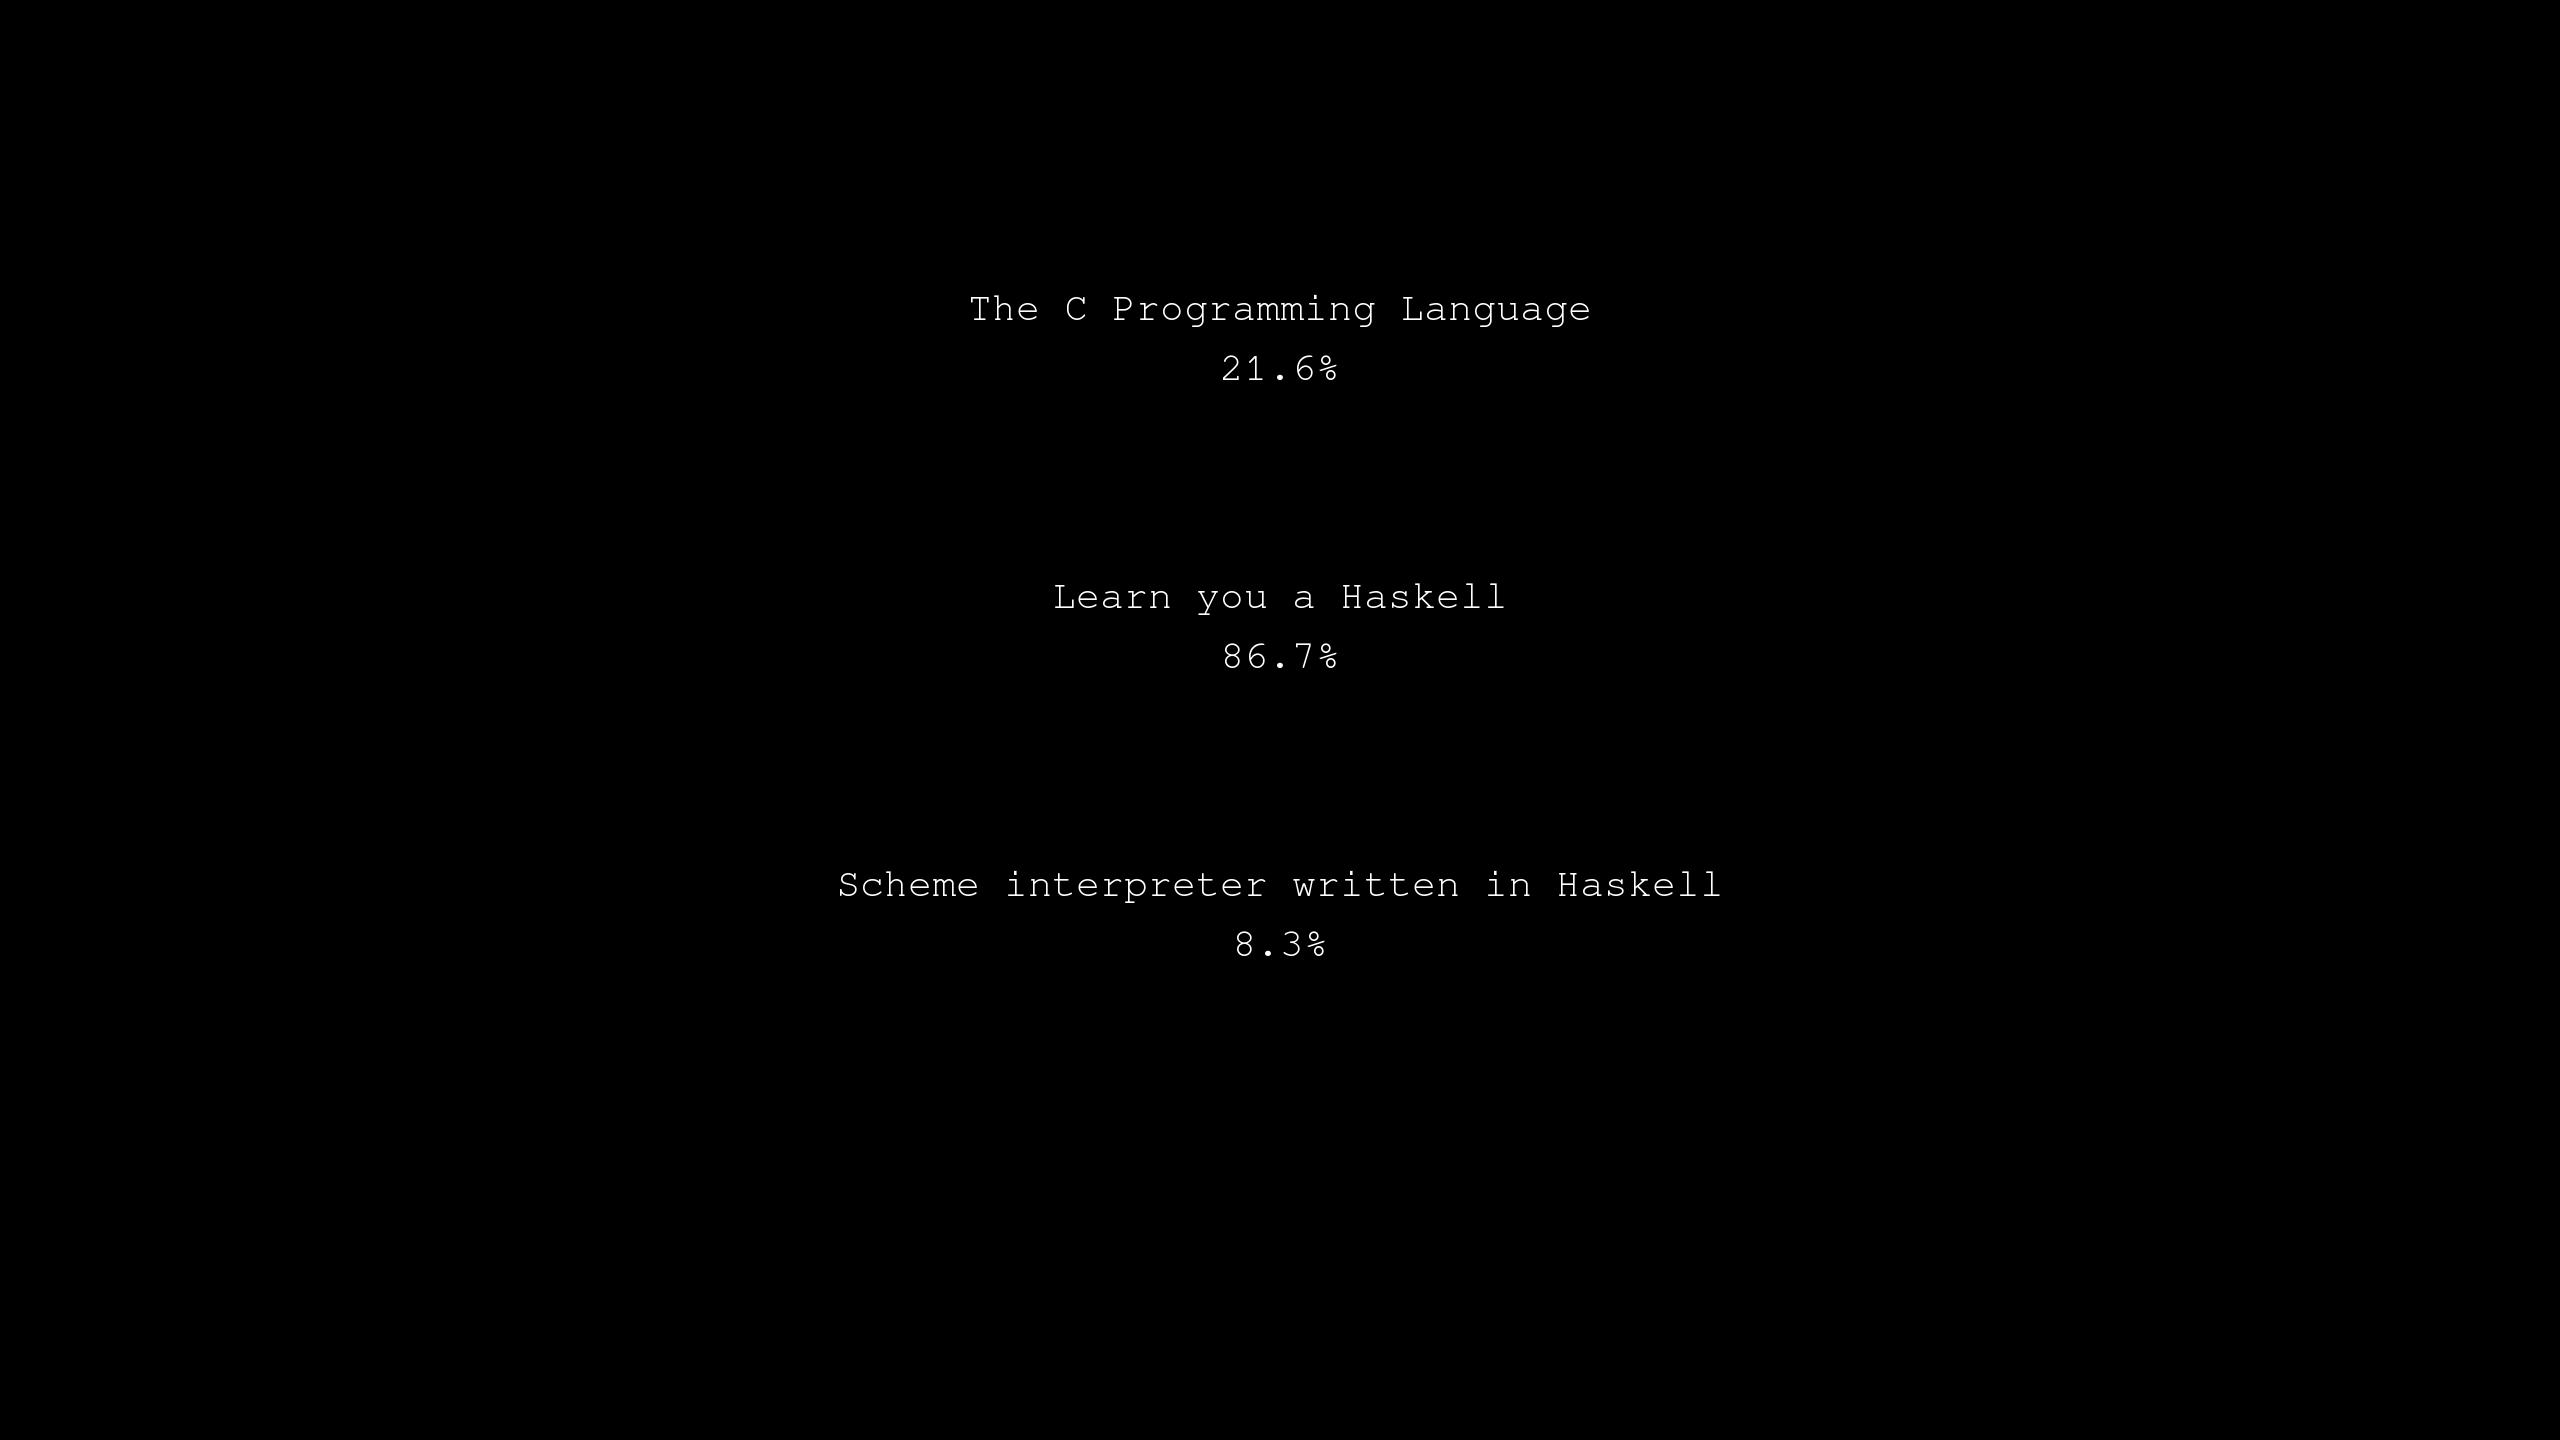
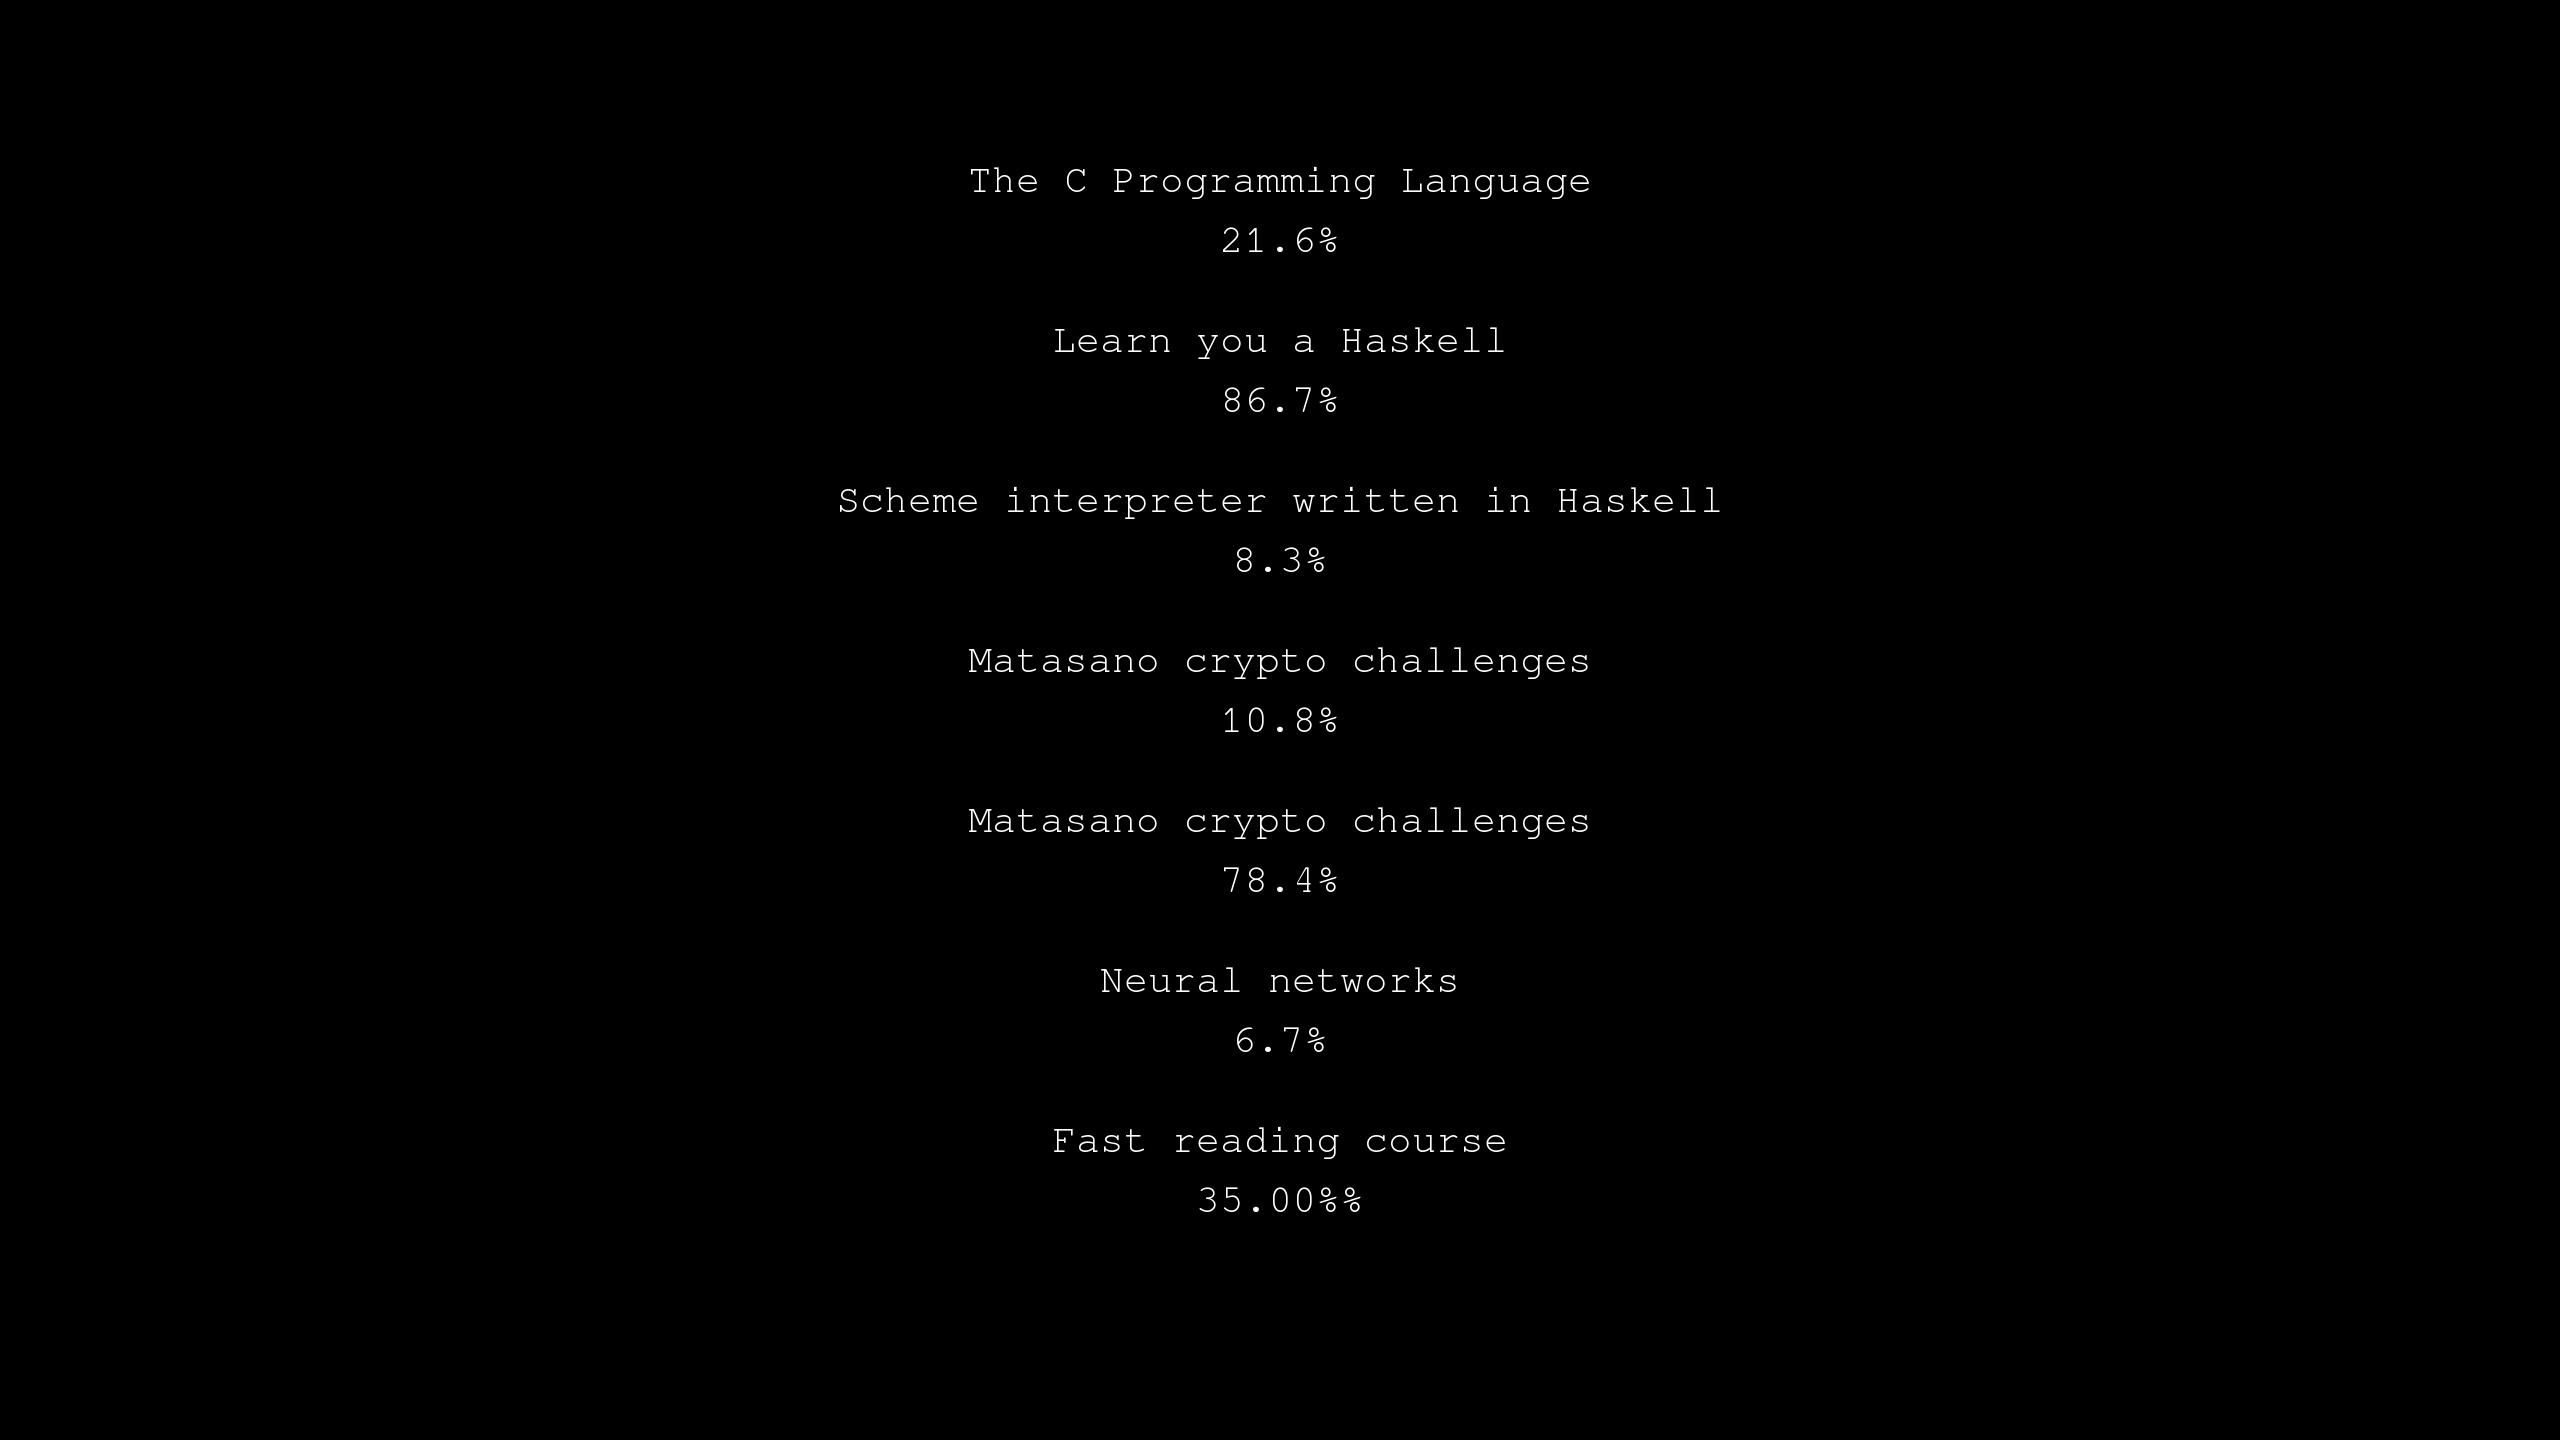
Scripts

diff --git a/scripts/dynamicwallpaper.py b/scripts/dynamicwallpaper.py
@@ -4,9 +4,8 @@ from PIL import Image, ImageDraw, ImageFont
 from random import randint
 import commands
 
-
-# get an image
-base = Image.open('/home/hallgrimur1471/bashscripts/dynamicwallpaper_base.jpg').convert('RGBA')
+# get a base image
+base = Image.open('/home/hallgrimur1471/programming/scripts/dynamicwallpaper_base.jpg').convert('RGBA')
 imageWidth, imageHeight = base.size
 
 # make a blank image for the text, initialized to transparent text color
@@ -17,27 +16,46 @@ fnt = ImageFont.truetype('Pillow/Tests/fonts/FreeMono.ttf', 40)
 # get a drawing context
 d = ImageDraw.Draw(txt)
 
-n = 3
+n = 7 # number of projects
+
 project1 = "The C Programming Language"
 project1TotalExercises = commands.getstatusoutput('cat /home/hallgrimur1471/c/exercise-count.txt | awk \'{sum += $3} END {print sum}\'')[1]
 project1CurrentExercise = commands.getstatusoutput('ls /home/hallgrimur1471/c | egrep \'^ex.-.*\.c$\' | wc -l')[1]
 progress1 = 100*float(project1CurrentExercise)/(int(project1TotalExercises)+1)
 progress1 = "%.1f%%" % progress1
+
 project2 = "Learn you a Haskell"
 project2TotalChapters = 14
 project2CurrentChapter = commands.getstatusoutput('ls /home/hallgrimur1471/programming/learn-you-a-haskell | egrep \'^c[0-9]+-.*\.hs$\' | egrep -o \'^c[0-9]+-\' | uniq | wc -l')[1]
 progress2 = 100*float(project2CurrentChapter)/(int(project2TotalChapters)+1)
 progress2 = "%.1f%%" % progress2
+
 project3 = "Scheme interpreter written in Haskell"
 project3TotalChapters = commands.getstatusoutput('cat /home/hallgrimur1471/programming/scheme-interpreter-written-in-haskell/project.progress | wc -l')[1]
 project3CurrentChapter = commands.getstatusoutput('cat /home/hallgrimur1471/programming/scheme-interpreter-written-in-haskell/project.progress | awk \'{sum += $2} END {print sum}\'')[1]
 progress3 = 100*float(project3CurrentChapter)/(int(project3TotalChapters))
 progress3 = "%.1f%%" % progress3
 
-project4 = "Fast reading course"
-project5 = "Linear regression"
-project6 = "Cryptopals"
-project7 = "Advent of code"
+project4 = "Matasano crypto challenges"
+project4TotalChallenges = 64+1 # +1 so we don't go to 100% when starting last challenge
+project4CurrentChallenge = commands.getstatusoutput("cd /home/hallgrimur1471/programming/matasano_crypto_challenges/matasano_cryptography && ls | egrep '^s[0-9]_.+$' | xargs ls -1 | egrep -o '^c[0-9][0-9]' | uniq | wc -l")[1]
+progress4 = 100*float(project4CurrentChallenge)/(int(project4TotalChallenges))
+progress4 = "%.1f%%" % progress4
+
+project5 = "Advent of code"
+project5TotalChallenges = 25*2+1 # +1 so we don't go to 100% when starting last challenge
+project5CurrentChallenge = commands.getstatusoutput("cd /home/hallgrimur1471/programming/advent-of-code && ls | egrep '^day(-|_)[0-9]+.*\.(py|hs)$' | wc -l")[1]
+progress5 = 100*float(project5CurrentChallenge)/(int(project5TotalChallenges))
+progress5 = "%.1f%%" % progress5
+
+project6 = "Neural networks"
+project6TotalCourses = 15
+project6CompletedCourses = 1
+progress6 = 100*float(project6CompletedCourses)/(int(project6TotalCourses))
+progress6 = "%.1f%%" % progress6
+
+project7 = "Fast reading course"
+progress7 = "35.00%%"
 
 fx = float(imageWidth)/2
 vs = imageHeight/(n+2)
@@ -53,15 +71,14 @@ color2 = 255
 color3 = 255
 textColor = (color1,color2,color3,255)
 
-d.text((fx-12*len(project1),1*vs), project1, font=fnt, fill=textColor)
-d.text((fx-12*len(progress1),1*vs+60), progress1, font=fnt, fill=textColor)
-
-d.text((fx-12*len(project2),2*vs), project2, font=fnt, fill=textColor)
-d.text((fx-12*len(progress2),2*vs+60), progress2, font=fnt, fill=textColor)
-
-d.text((fx-12*len(project3),3*vs), project3, font=fnt, fill=textColor)
-d.text((fx-12*len(progress3),3*vs+60), progress3, font=fnt, fill=textColor)
+projects = [project1, project2, project3, project4, project4, project6, project7]
+progresses = [progress1, progress2, progress3, progress4, progress5, progress6, progress7]
+for i in range(n):
+    d.text((fx-12*len(projects[i]),(i+1)*vs), projects[i], font=fnt, fill=textColor)
+    d.text((fx-12*len(progresses[i]),(i+1)*vs+60), progresses[i], font=fnt, fill=textColor)
 
 out = Image.alpha_composite(base, txt)
-out.save("/home/hallgrimur1471/bashscripts/dynamicwallpaper.jpg", "jpeg")
+
+# this will automatically update the background since gsettings knows this is the background file
+out.save("/home/hallgrimur1471/programming/scripts/dynamicwallpaper.jpg", "jpeg")
 
